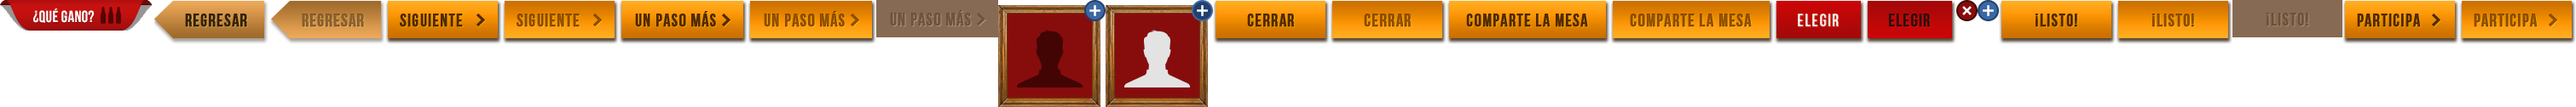
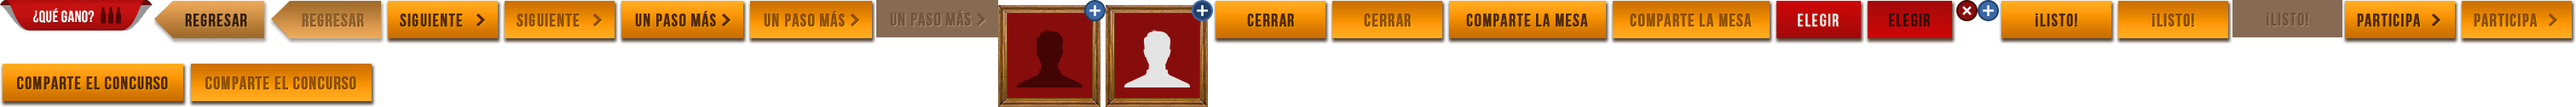
cambio en boton compartir

Changed region(s): [[0.0, 0.5952, 0.1555, 1.0]]

diff --git a/css/sprite.css b/css/sprite.css
@@ -22,3 +22,5 @@
 .cusquena-icon.boton-listo-inactivo { background-position: -2619px 0px; width: 129px; height: 44px;  } 
 .cusquena-icon.boton-participa { background-position: -2748px 0px; width: 137px; height: 52px;  } 
 .cusquena-icon.boton-participa:hover { background-position: -2885px 0px; width: 137px; height: 52px;  } 
+.cusquena-icon.boton-comparte-el-concurso { background-position: 0px -75px; width: 220px; height: 52px;  } 
+.cusquena-icon.boton-comparte-el-concurso:hover { background-position: -221px -75px; width: 220px; height: 52px;  } 

diff --git a/sass/custom.sass b/sass/custom.sass
@@ -200,8 +200,8 @@ body
                     padding-top: 360px
                     width: 347px
                 footer
-                    margin-left: -96px
-                    width: 192px
+                    margin-left: -110px
+                    width: 220px
             &.section-terminos-y-condiciones, &.section-que-gano
                 left: 0
                 position: absolute

diff --git a/index.php b/index.php
@@ -225,7 +225,7 @@ if (isset($_REQUEST['signed_request'])) {
                         <span class="enunciado white" id="nombre_ingresado">"CAMPEONES"</span><br/>
                     </article>
                     <footer>
-                        <a href="#" class="cusquena-icon boton-compartir" id="boton_compartir"></a>
+                        <a href="#" class="cusquena-icon boton-comparte-el-concurso" id="boton_compartir"></a>
                     </footer>
                 </section>
                 <section class="section-terminos-y-condiciones">
